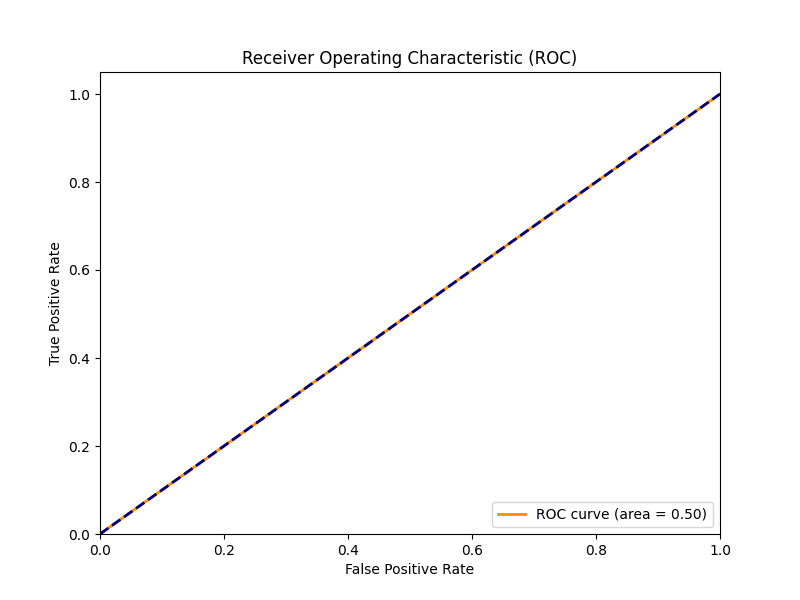
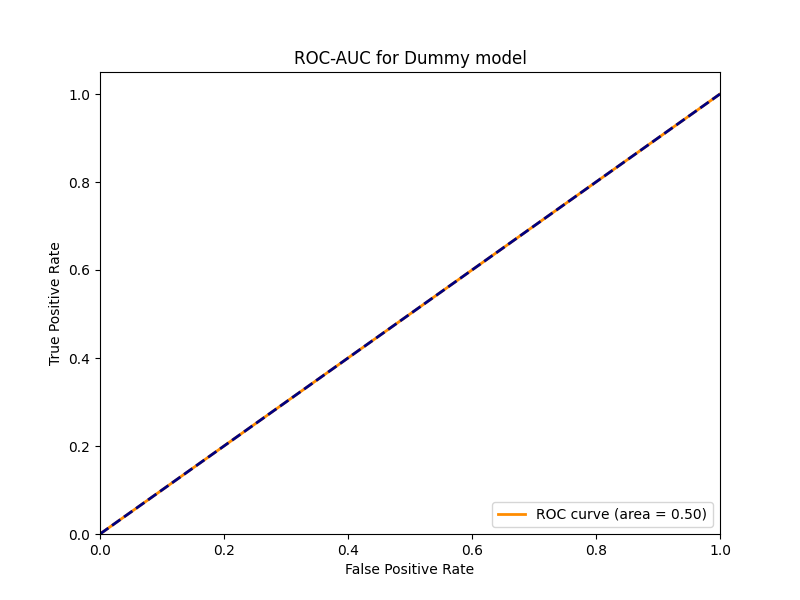
Se actualiza la imagen del ROC-AUC del dummy model.

Changed region(s): [[0.3125, 0.06, 0.7188, 0.12]]

diff --git a/models/d01_dummy_roc_auc.py b/models/d01_dummy_roc_auc.py
@@ -4,8 +4,7 @@ import pandas as pd
 from functions import roc_auc_graph
 
 # Cargar las predicciones
-target_test_url = './files/datasets/intermediate/target_test.csv'
 model_predicts_url = './files/datasets/output/dummy_predicts.csv'
 image_name = 'dummy_roc_auc'
-
-roc_auc_graph(target_test_url, model_predicts_url, image_name)
+title = 'ROC-AUC for Dummy model'
+roc_auc_graph(model_predicts_url, image_name, title)
